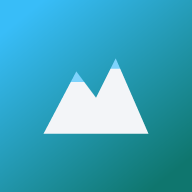
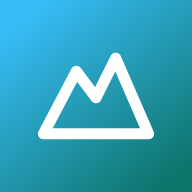
Vrni ikono na linijski stil, a z zaprtim spodnjim robom
Notranjost grebena je spet prazna (samo bel obris, brez polnila) —
skozi njo je viden preliv ozadja. Pot je zdaj zaprta (dodan spodnji
rob), snežni kljuki pa uporabljata iste, robovom vrha prilegajoče se
točke kot v prejšnji različici, zato ne štrlita čez pobočje.

Changed region(s): [[0.1875, 0.25, 0.8125, 0.75]]

diff --git a/tools/make-icons.js b/tools/make-icons.js
@@ -8,10 +8,9 @@ var SS = 4;                        // nadvzorčenje za mehke robove
 
 var GRAD_START = [0x38, 0xbd, 0xf8];   // sky-blue
 var GRAD_END = [0x0f, 0x76, 0x6e];     // teal
-var PEAK = [0xf3, 0xf5, 0xf8];
-var SNOW = [0x7d, 0xd3, 0xfc];
+var LINE = [0xff, 0xff, 0xff];
 
-/* Risba (zaprt greben + dve snežni kapi) je v koordinatah 0..192;
+/* Risba (zaprt greben, samo obris + dve snežni kljuki) je v koordinatah 0..192;
    njen dejanski obseg je x 32..160, y 48..140 — sredina (96, 94). */
 var ART = { cx: 96, cy: 94 };
 
@@ -24,13 +23,14 @@ function insideRoundRect(x, y, w, h, r) {
   return dx * dx + dy * dy <= r * r;
 }
 
-function insidePolygon(x, y, pts) {
-  var hit = false;
-  for (var i = 0, j = pts.length - 2; i < pts.length; j = i, i += 2) {
-    var xi = pts[i], yi = pts[i + 1], xj = pts[j], yj = pts[j + 1];
-    if ((yi > y) !== (yj > y) && x < (xj - xi) * (y - yi) / (yj - yi) + xi) hit = !hit;
-  }
-  return hit;
+/* Odsek z zaobljenima koncema: razdalja do daljice <= polovica debeline. */
+function insideCapsule(x, y, x1, y1, x2, y2, halfW) {
+  var vx = x2 - x1, vy = y2 - y1;
+  var len2 = vx * vx + vy * vy;
+  var t = len2 ? ((x - x1) * vx + (y - y1) * vy) / len2 : 0;
+  t = Math.min(1, Math.max(0, t));
+  var dx = x - (x1 + t * vx), dy = y - (y1 + t * vy);
+  return dx * dx + dy * dy <= halfW * halfW;
 }
 
 /* Diagonalen preliv (ujema SVG linearGradient 14.7%,6.4% -> 85.3%,93.6%). */
@@ -115,23 +115,22 @@ function drawIcon(size, maskable) {
     : function (x, y) { return insideRoundRect(x, y, n, n, 40 * unit); };
   bmp.fillFn(bgTest, function (x, y) { return gradColor(x, y, n); });
 
-  // zaprt greben (isti potek kot pot v icon.svg, a zaprt na dnu) — polno bel
-  var ridge = [32, 140, 72, 64, 96, 96, 120, 48, 160, 140];
-  var polyRidge = [];
-  for (var i = 0; i < ridge.length; i += 2) polyRidge.push(X(ridge[i]), Y(ridge[i + 1]));
-  bmp.fill(function (x, y) { return insidePolygon(x, y, polyRidge); }, PEAK);
+  // zaprt greben, samo obris (notranjost prazna, prosevi preliv ozadja)
+  var ridge = [[32, 140, 72, 64], [72, 64, 96, 96], [96, 96, 120, 48], [120, 48, 160, 140], [160, 140, 32, 140]];
+  var ridgeHalfW = 6.8 * S;
+  ridge.forEach(function (seg) {
+    bmp.fill(function (x, y) { return insideCapsule(x, y, X(seg[0]), Y(seg[1]), X(seg[2]), Y(seg[3]), ridgeHalfW); }, LINE);
+  });
 
-  // snežna kapa na vrhu 1 — pomanjšan trikotnik po robovih vrha, ne štrli čez rob
-  var snow1 = [65.26, 76.8, 72, 64, 81.6, 76.8];
-  var polySnow1 = [];
-  for (i = 0; i < snow1.length; i += 2) polySnow1.push(X(snow1[i]), Y(snow1[i + 1]));
-  bmp.fill(function (x, y) { return insidePolygon(x, y, polySnow1); }, SNOW);
-
-  // snežna kapa na vrhu 2
-  var snow2 = [113.6, 60.8, 120, 48, 125.57, 60.8];
-  var polySnow2 = [];
-  for (i = 0; i < snow2.length; i += 2) polySnow2.push(X(snow2[i]), Y(snow2[i + 1]));
-  bmp.fill(function (x, y) { return insidePolygon(x, y, polySnow2); }, SNOW);
+  // snežni kljuki — točke ležijo natanko na robovih vrhov, zato ne štrlijo čez
+  var snow = [
+    [65.26, 76.8, 72, 64], [72, 64, 81.6, 76.8],
+    [113.6, 60.8, 120, 48], [120, 48, 125.57, 60.8]
+  ];
+  var snowHalfW = 5.2 * S;
+  snow.forEach(function (seg) {
+    bmp.fill(function (x, y) { return insideCapsule(x, y, X(seg[0]), Y(seg[1]), X(seg[2]), Y(seg[3]), snowHalfW); }, LINE);
+  });
 
   return downsample(bmp, size);
 }

diff --git a/sw.js b/sw.js
@@ -1,7 +1,7 @@
 /* Predpomnilnik lupine aplikacije, da deluje tudi brez povezave.
    Ploščice zemljevida (tuja domena) gredo mimo predpomnilnika naravnost v omrežje.
    Ob spremembi datotek povečaj VERSION. */
-var VERSION = 'kam-v8';
+var VERSION = 'kam-v9';
 var SHELL = [
   './', './index.html', './style.css', './icon.svg', './manifest.json',
   './js/app.js',
